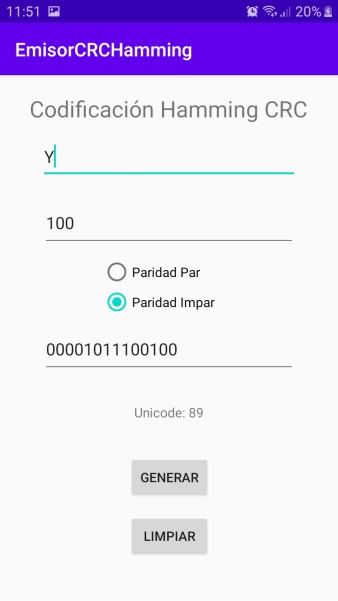
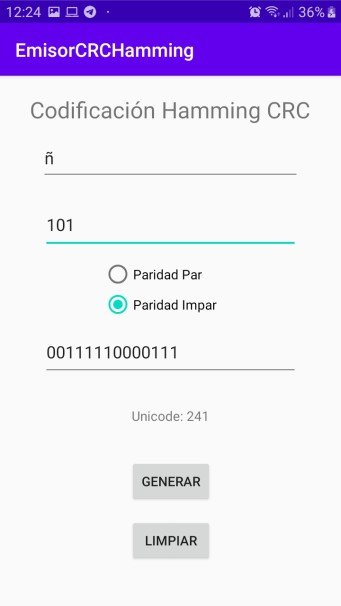
[ADD] modificación agregar leyenda de el valor del caracter en decimal

diff --git a/README.md b/README.md
@@ -3,6 +3,6 @@ This project simulates the process of the  transmitter a byte of information int
 
 ## 1. Examples
 ### 1.   even parity (paridad par)
-![](imagenes/ejemplo.jpg)
+![](imagenes/ejemplo1.jpg)
 ### 2.   odd parity (paridad impar)
 ![](imagenes/ejemplo2.jpg)
